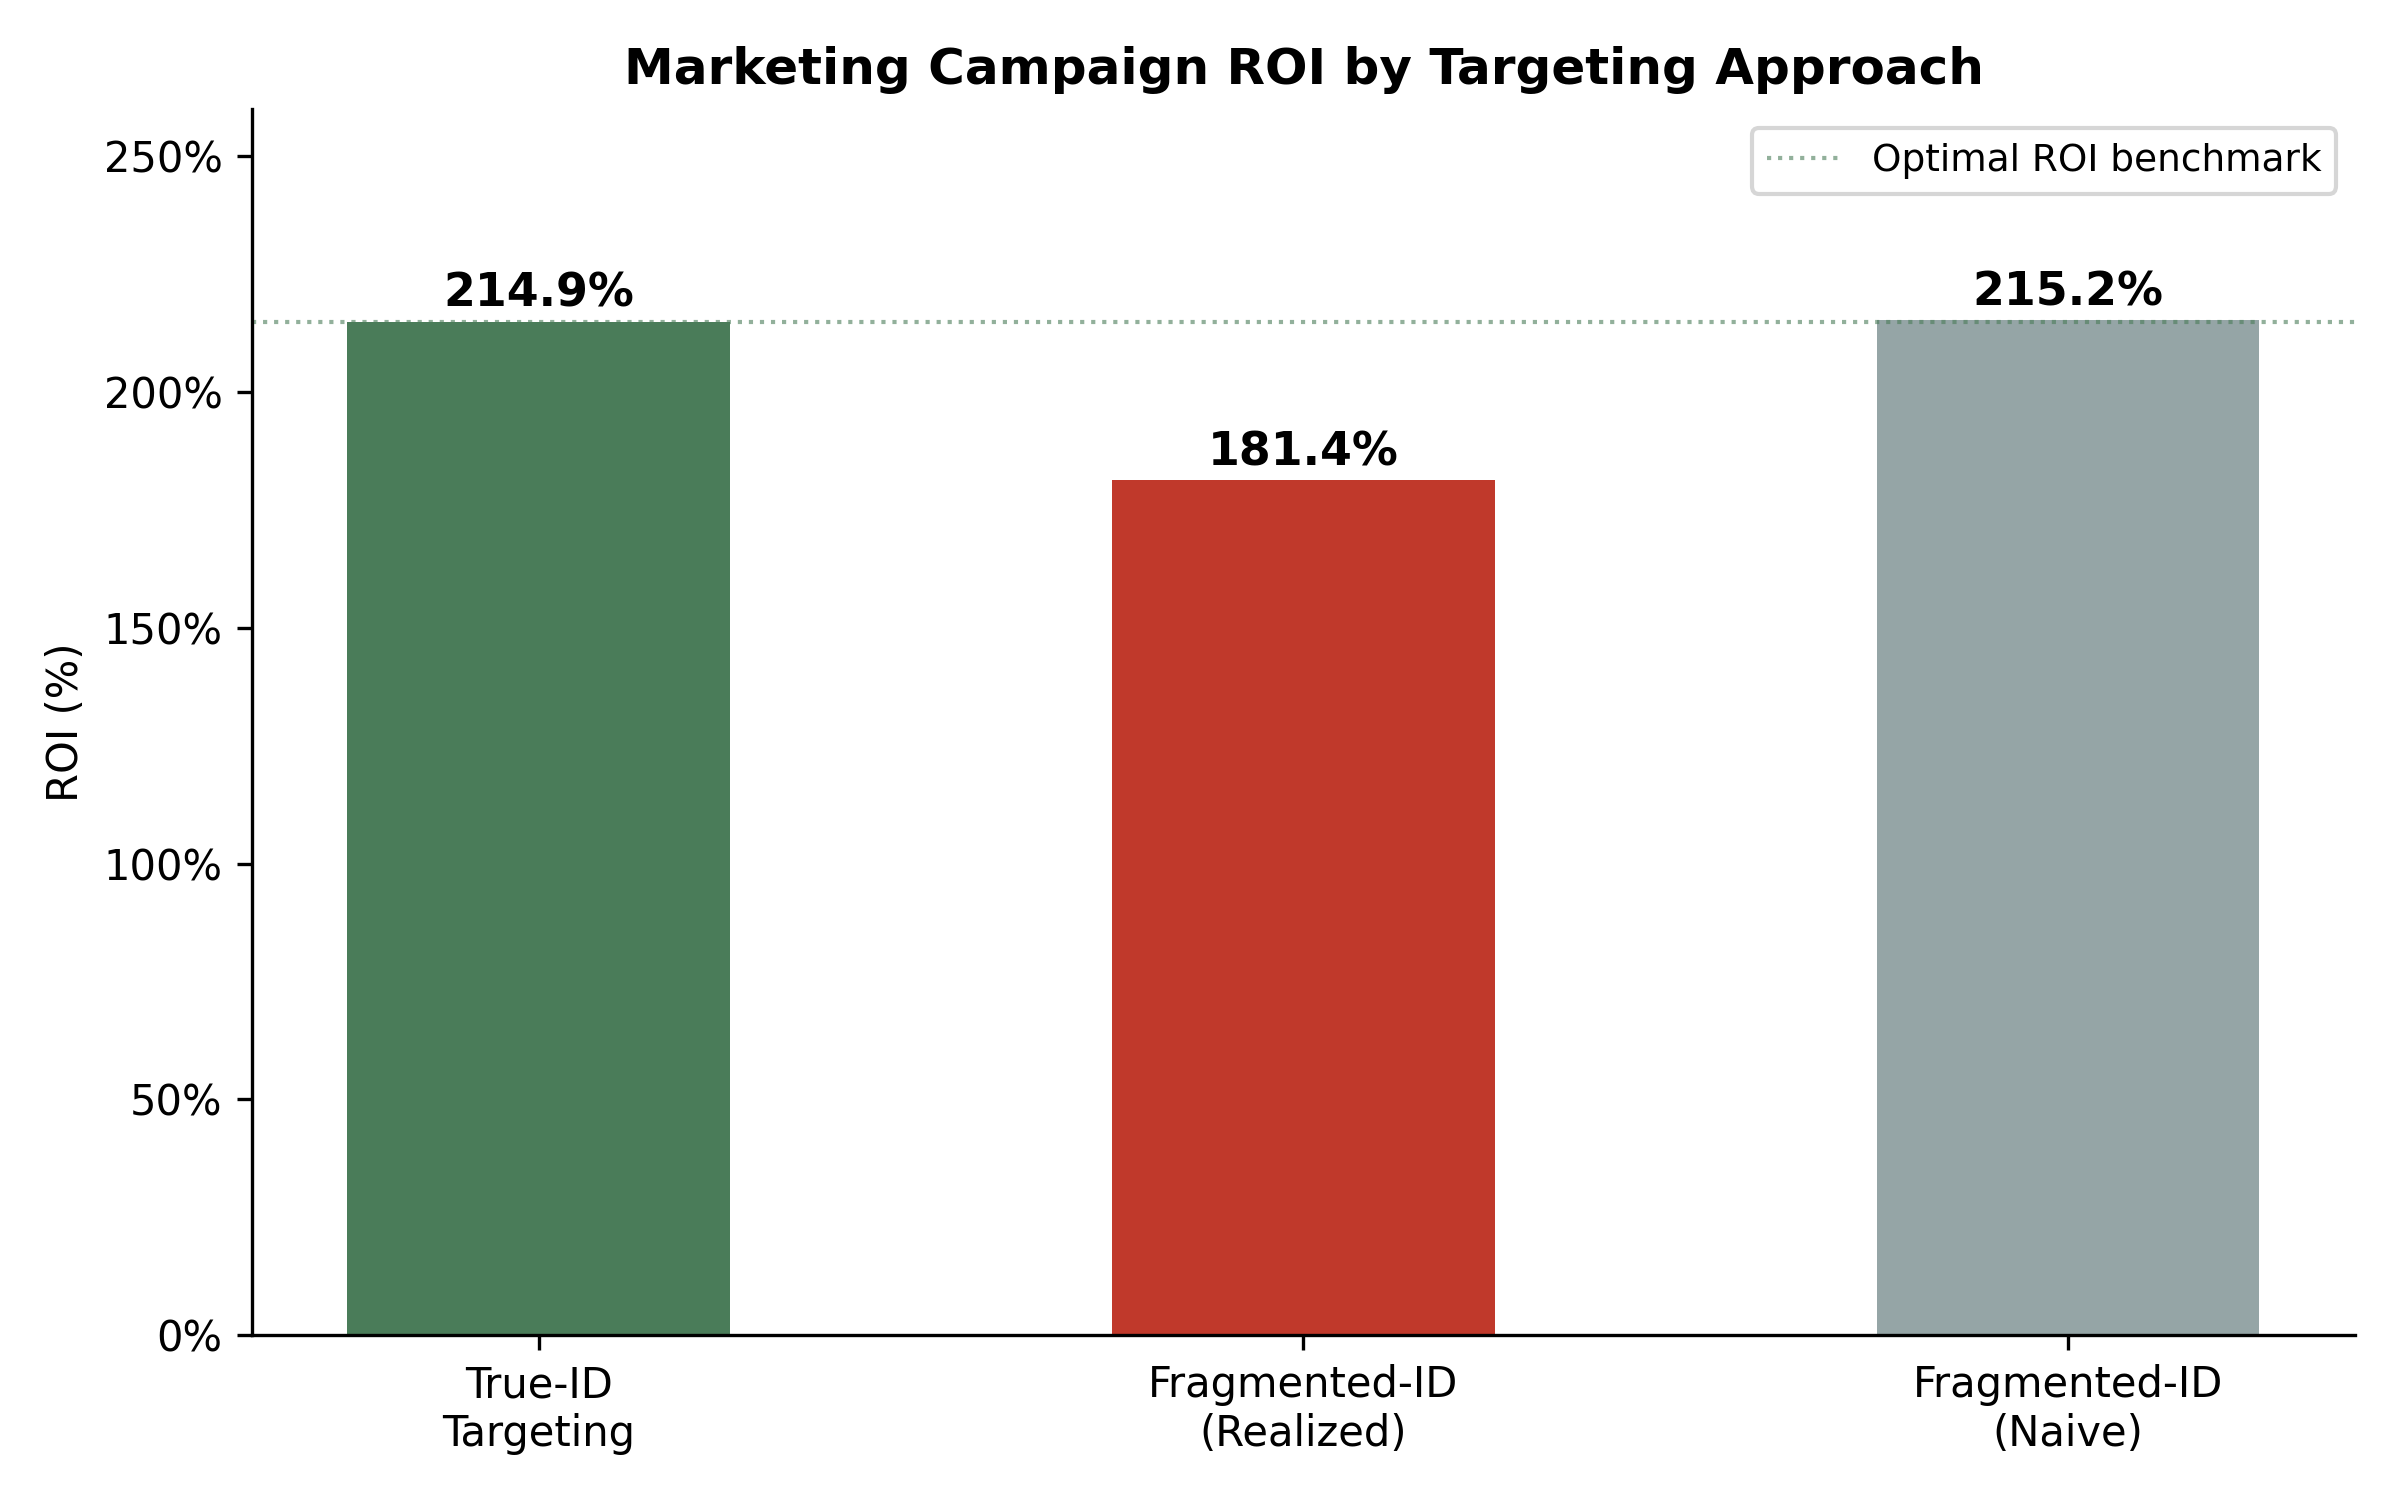
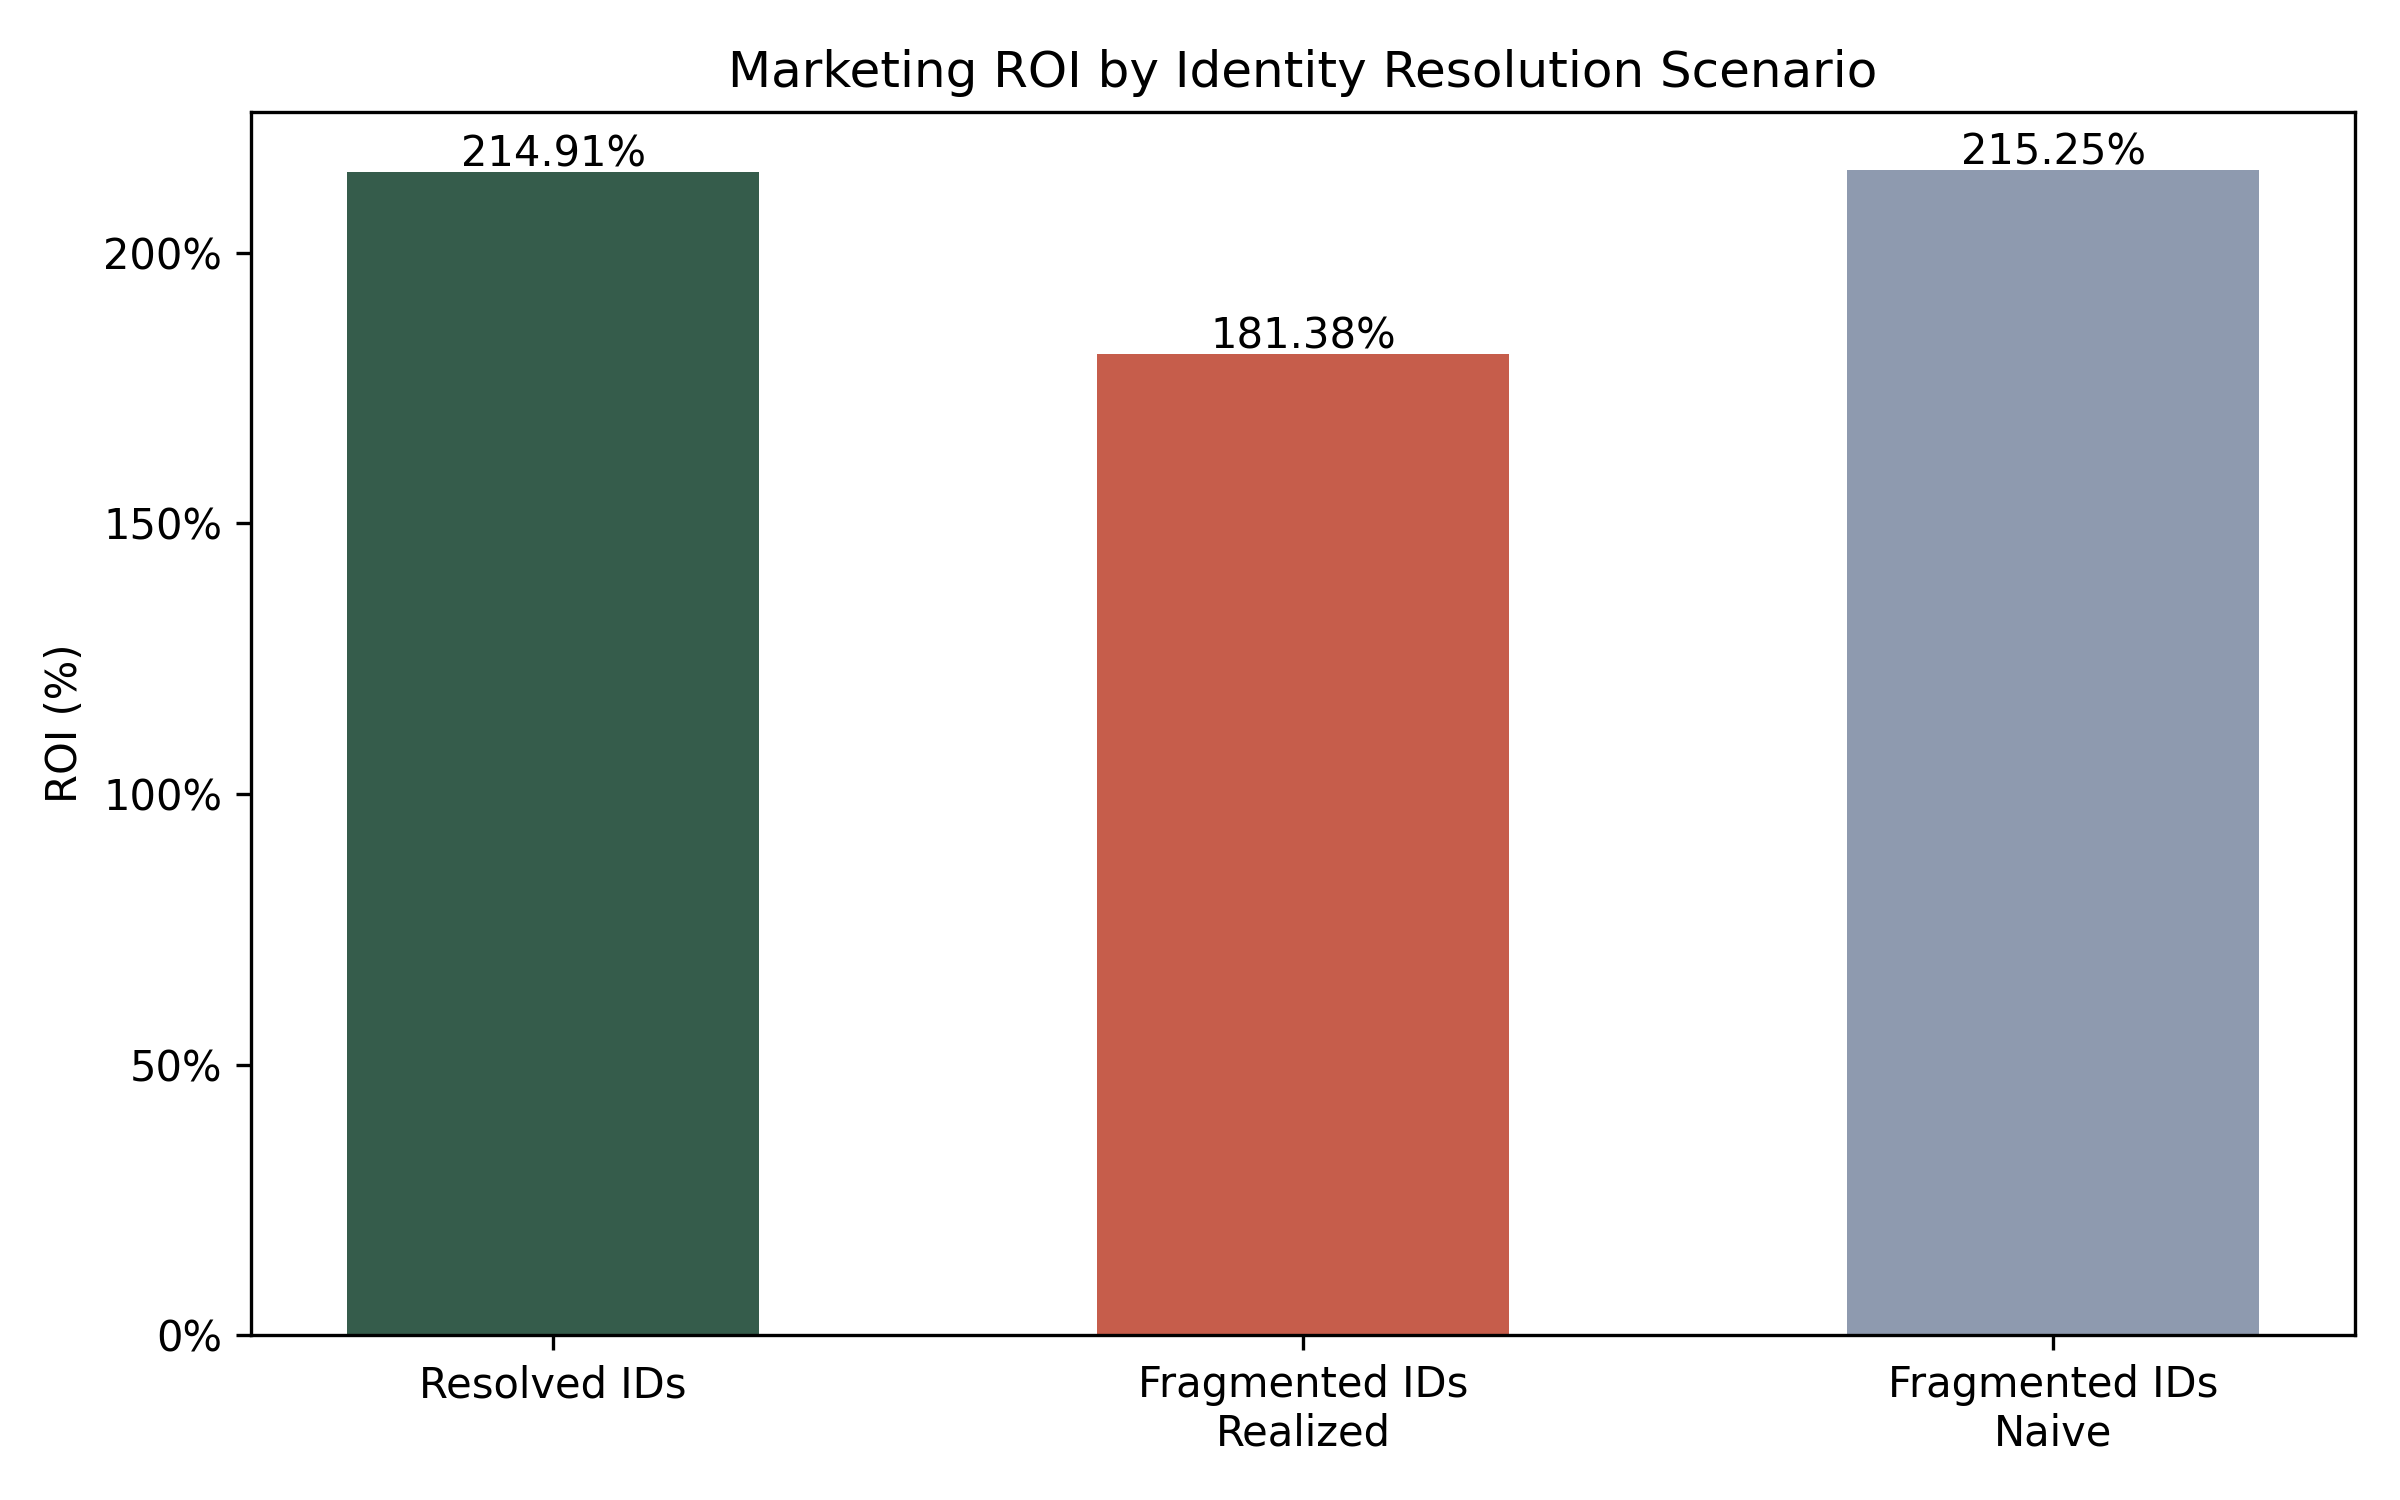
docs: refresh ROI figures for updated calculation

diff --git a/README.md b/README.md
@@ -12,8 +12,8 @@ This project evaluates that distortion using a transaction dataset modeled on an
 - Average annual revenue per customer falls from $2,126.93 to $1,408.56 when spend is not consolidated across brands.
 - High-value customers are materially undercounted: 26.2% of customers are high value in the resolved view versus 13.05% in the fragmented view.
 - The low-value segment is overstated from 23.8% to 51.85%, making the customer base look less valuable than it actually is.
-- A medium-tier upgrade campaign generates 114.91% ROI with resolved identities, but only 81.38% realized ROI when targeting is based on fragmented IDs.
-- A naive marketer evaluating performance inside the same fragmented system would estimate ROI at 115.25%, which masks the targeting error and creates false confidence in campaign performance.
+- A medium-tier upgrade campaign generates 214.91% ROI with resolved identities, but only 181.38% realized ROI when targeting is based on fragmented IDs.
+- A naive marketer evaluating performance inside the same fragmented system would estimate ROI at 215.25%, which masks the targeting error and creates false confidence in campaign performance.
 
 ## Dataset
 
@@ -60,15 +60,15 @@ The resolved view shows a meaningfully stronger customer base than the fragmente
 
 ![Revenue Distribution Comparison](outputs/revenue_distribution_comparison.png)
 
-The campaign simulation shows why this matters commercially. With resolved IDs, the firm sends 500 offers, spends $25,000, and generates $53,727.29 in incremental profit for ROI of 114.91%. With fragmented IDs, the firm sends 530 offers and spends $26,500, but realized incremental profit drops to $48,065.38, reducing ROI to 81.38%.
+The campaign simulation shows why this matters commercially. With resolved IDs, the firm sends 500 offers, spends $25,000, and generates $53,727.29 in incremental profit for ROI of 214.91%. With fragmented IDs, the firm sends 530 offers and spends $26,500, but realized incremental profit drops to $48,065.38, reducing ROI to 181.38%.
 
-The gap is driven by mistargeting. In the fragmented view, 102 high-value customers are incorrectly classified as medium and receive wasted marketing spend, while many true medium-value customers are not recognized as eligible targets when their spend is split across brands. Even more concerning, the naive fragmented evaluation estimates ROI at 115.25%, almost identical to the optimal result, because the same identity error distorts both who gets targeted and how performance is measured.
+The gap is driven by mistargeting. In the fragmented view, 102 high-value customers are incorrectly classified as medium and receive wasted marketing spend, while many true medium-value customers are not recognized as eligible targets when their spend is split across brands. Even more concerning, the naive fragmented evaluation estimates ROI at 215.25%, almost identical to the optimal result, because the same identity error distorts both who gets targeted and how performance is measured.
 
 | Scenario | Ads Sent | Marketing Spend | Incremental Profit | ROI |
 | --- | ---: | ---: | ---: | ---: |
-| Resolved ID targeting | 500 | $25,000 | $53,727.29 | 114.91% |
-| Fragmented ID targeting, realized outcome | 530 | $26,500 | $48,065.38 | 81.38% |
-| Fragmented ID targeting, naive evaluation | 530 | $26,500 | $57,041.22 | 115.25% |
+| Resolved ID targeting | 500 | $25,000 | $53,727.29 | 214.91% |
+| Fragmented ID targeting, realized outcome | 530 | $26,500 | $48,065.38 | 181.38% |
+| Fragmented ID targeting, naive evaluation | 530 | $26,500 | $57,041.22 | 215.25% |
 
 ![ROI Comparison](outputs/roi_comparison.png)
 
@@ -172,7 +172,7 @@ plt.close()
 
 # Chart 3: ROI comparison
 scenario_names = ["Resolved IDs", "Fragmented IDs\nRealized", "Fragmented IDs\nNaive"]
-roi_values = [114.91, 81.38, 115.25]
+roi_values = [214.91, 181.38, 215.25]
 
 fig, ax = plt.subplots(figsize=(8, 5))
 bars = ax.bar(scenario_names, roi_values, color=["#355C4B", "#C65D4B", "#8E9AAF"], width=0.55)
